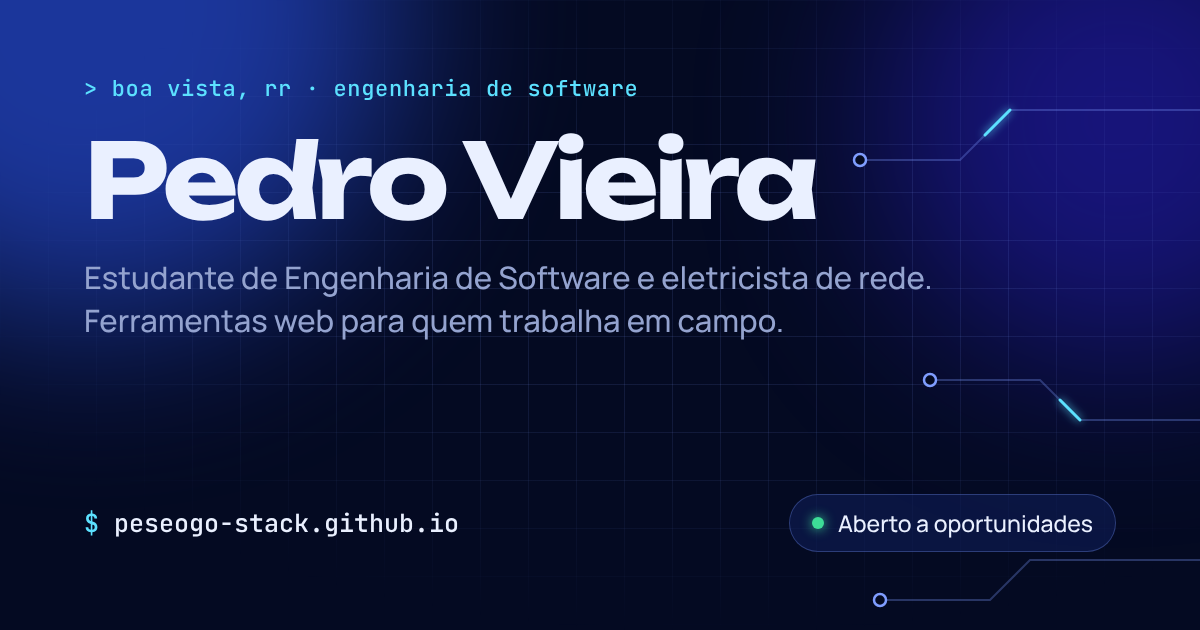
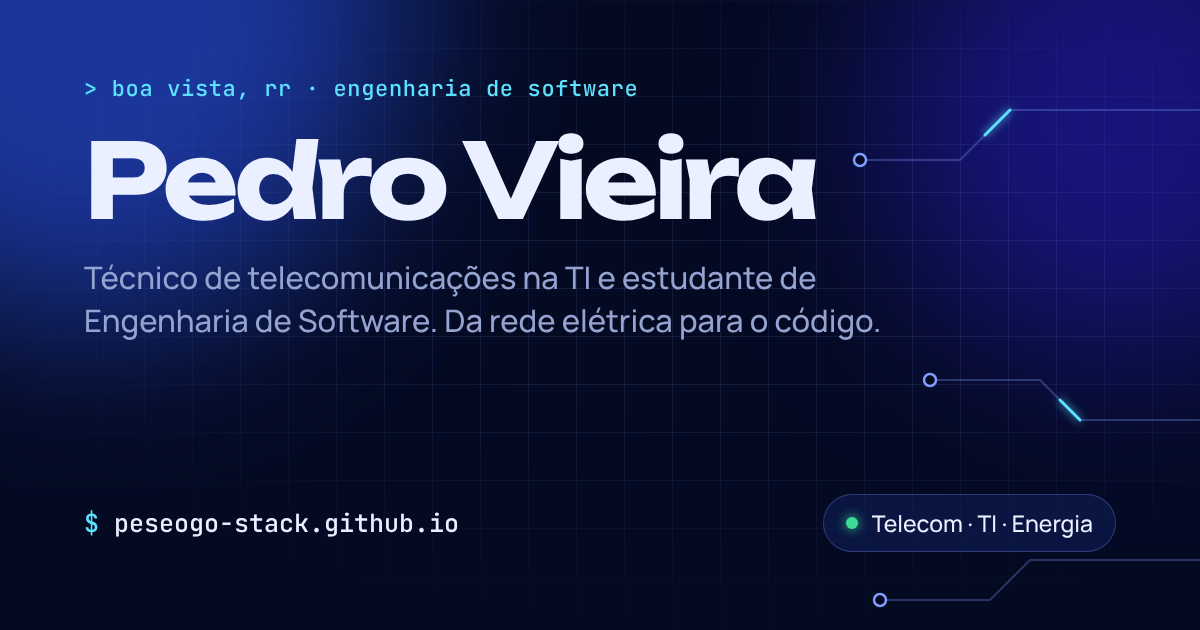
Atualiza a área atual: técnico de telecomunicações na TI
- Topo, cartão de código, Sobre e painel "Agora" com o trabalho atual:
  técnico de telecomunicações no setor de TI da Âmbar RR, contratado
  pela Norte Tech, desde nov. 2026
- Na trajetória, os dois fios agora se juntam no trabalho atual, com o
  objetivo de 2029 logo abaixo; a fase de eletricista vai de jul. a
  out. 2026
- Remove os textos de "aberto a oportunidades" (selo, status do código,
  contato e imagem de prévia do link)

Claude-Session: https://claude.ai/code/session_018XH9NCpCkZoVgLLGGqTt29

Changed region(s): [[0.0617, 0.4222, 0.7708, 0.5429], [0.6475, 0.7841, 0.925, 0.8746]]

diff --git a/index.html b/index.html
@@ -4,7 +4,7 @@
   <meta charset="utf-8">
   <meta name="viewport" content="width=device-width, initial-scale=1">
   <title>Pedro Vieira · Engenharia de Software</title>
-  <meta name="description" content="Portfólio de Pedro Vieira, estudante de Engenharia de Software em Boa Vista (RR) e eletricista de rede de distribuição. Projetos web em JavaScript, Python e SQL.">
+  <meta name="description" content="Portfólio de Pedro Vieira, técnico de telecomunicações na área de TI e estudante de Engenharia de Software em Boa Vista (RR). Projetos web em JavaScript, Python e SQL.">
   <meta name="author" content="Pedro Gabriel Costa Vieira">
   <link rel="canonical" href="https://peseogo-stack.github.io/">
 
@@ -13,7 +13,7 @@
   <meta property="og:locale" content="pt_BR">
   <meta property="og:url" content="https://peseogo-stack.github.io/">
   <meta property="og:title" content="Pedro Vieira · Engenharia de Software">
-  <meta property="og:description" content="Estudante de Engenharia de Software e eletricista. Construo ferramentas web para problemas reais de quem trabalha em campo.">
+  <meta property="og:description" content="Técnico de telecomunicações na TI e estudante de Engenharia de Software. Venho da rede elétrica e construo ferramentas web para quem trabalha em campo.">
   <meta property="og:image" content="https://peseogo-stack.github.io/img/og.png">
   <meta property="og:image:width" content="1200">
   <meta property="og:image:height" content="630">
@@ -34,7 +34,7 @@
     "name": "Pedro Gabriel Costa Vieira",
     "alternateName": "Pedro Vieira",
     "url": "https://peseogo-stack.github.io/",
-    "jobTitle": "Estudante de Engenharia de Software",
+    "jobTitle": "Técnico de Telecomunicações (TI)",
     "address": { "@type": "PostalAddress", "addressLocality": "Boa Vista", "addressRegion": "RR", "addressCountry": "BR" },
     "alumniOf": { "@type": "CollegeOrUniversity", "name": "UNINTER" },
     "sameAs": [
@@ -179,12 +179,12 @@
     <div class="faixa">
       <div class="largura heroi__grade">
         <div class="heroi__texto">
-          <p class="pilula entra" style="--d:.05s"><span class="ponto" aria-hidden="true"></span>Aberto a estágio, suporte de TI e dev júnior</p>
+          <p class="pilula entra" style="--d:.05s"><span class="ponto" aria-hidden="true"></span>Técnico de Telecomunicações · TI na Âmbar RR</p>
           <h1 class="heroi__nome">Pedro Vieira</h1>
-          <p class="digitando entra" style="--d:.28s" aria-label="Eu sou desenvolvedor em formação, eletricista de rede e estudante de Engenharia de Software">
-            <span aria-hidden="true">Eu sou </span><span class="digitando__texto" aria-hidden="true">desenvolvedor em formação</span><span class="caret" aria-hidden="true"></span>
+          <p class="digitando entra" style="--d:.28s" aria-label="Eu sou técnico de telecomunicações, estudante de Engenharia de Software e desenvolvedor em formação">
+            <span aria-hidden="true">Eu sou </span><span class="digitando__texto" aria-hidden="true">técnico de telecomunicações</span><span class="caret" aria-hidden="true"></span>
           </p>
-          <p class="lead entra" style="--d:.38s">Trabalho na rede de distribuição de energia e estudo Engenharia de Software em Boa Vista (RR). Construo ferramentas web para quem trabalha em campo.</p>
+          <p class="lead entra" style="--d:.38s">Trabalho com telecomunicações no setor de TI de uma empresa de energia e estudo Engenharia de Software em Boa Vista (RR). Venho da rede elétrica e construo ferramentas web para quem trabalha em campo.</p>
           <div class="botoes entra" style="--d:.48s">
             <a class="btn btn--corrente magnetico" href="#projetos">Ver projetos <svg class="icone" aria-hidden="true"><use href="#i-seta"/></svg></a>
             <a class="btn btn--vidro magnetico" href="https://github.com/Peseogo-stack" target="_blank" rel="noopener"><svg class="icone" aria-hidden="true"><use href="#i-github"/></svg>GitHub</a>
@@ -205,13 +205,13 @@
                 <span class="heroi__arquivo">pedro.js</span>
                 <button type="button" class="heroi__executar" id="executar"><svg class="icone" aria-hidden="true"><use href="#i-play"/></svg><span id="executar-texto">Executar</span></button>
               </div>
-              <div class="heroi__codigo" role="img" aria-label="Código descrevendo o Pedro: cidade Boa Vista, curso Engenharia de Software, trabalho eletricista de rede, estudando Python, SQL e Web, disponível.">
+              <div class="heroi__codigo" role="img" aria-label="Código descrevendo o Pedro: cidade Boa Vista, curso Engenharia de Software, trabalho técnico de telecomunicações na TI, origem eletricista de rede, estudando Python, SQL e Web.">
                 <span class="l"><span class="c-pal">const</span> <span class="c-cha">pedro</span> <span class="c-pon">=</span> <span class="c-pon">{</span></span>
                 <span class="l">  <span class="c-cha">cidade</span><span class="c-pon">:</span> <span class="c-txt">"Boa Vista, RR"</span><span class="c-pon">,</span></span>
                 <span class="l">  <span class="c-cha">curso</span><span class="c-pon">:</span> <span class="c-txt">"Eng. de Software"</span><span class="c-pon">,</span></span>
-                <span class="l">  <span class="c-cha">trabalho</span><span class="c-pon">:</span> <span class="c-txt">"Eletricista de rede"</span><span class="c-pon">,</span></span>
+                <span class="l l--ativa">  <span class="c-cha">trabalho</span><span class="c-pon">:</span> <span class="c-txt">"Téc. de Telecom · TI"</span><span class="c-pon">,</span></span>
+                <span class="l">  <span class="c-cha">origem</span><span class="c-pon">:</span> <span class="c-txt">"Eletricista de rede"</span><span class="c-pon">,</span></span>
                 <span class="l">  <span class="c-cha">estudando</span><span class="c-pon">:</span> <span class="c-pon">[</span><span class="c-txt">"Python"</span><span class="c-pon">,</span> <span class="c-txt">"SQL"</span><span class="c-pon">,</span> <span class="c-txt">"Web"</span><span class="c-pon">],</span></span>
-                <span class="l l--ativa">  <span class="c-cha">disponivel</span><span class="c-pon">:</span> <span class="c-bool">true</span><span class="c-pon">,</span></span>
                 <span class="l"><span class="c-pon">};</span></span>
                 <span class="l"> </span>
                 <span class="l"><span class="c-fn">apresentar</span><span class="c-pon">(</span><span class="c-cha">pedro</span><span class="c-pon">);</span></span>
@@ -221,9 +221,9 @@
                 <div class="saida" id="saida" aria-live="polite">
                   <p class="ok" style="--i:0">✓ perfil carregado</p>
                   <p style="--i:1"><span class="k">curso</span><span>Eng. de Software · 2º período</span></p>
-                  <p style="--i:2"><span class="k">trabalho</span><span>Eletricista · NR-10 · NR-35</span></p>
-                  <p style="--i:3"><span class="k">projetos</span><span>4 (2 com demo no ar)</span></p>
-                  <p style="--i:4"><span class="k">status</span><span>disponível para estágio e dev júnior</span></p>
+                  <p style="--i:2"><span class="k">trabalho</span><span>Téc. de Telecom · TI · Âmbar RR</span></p>
+                  <p style="--i:3"><span class="k">origem</span><span>Eletricista · NR-10 · NR-35</span></p>
+                  <p style="--i:4"><span class="k">projetos</span><span>4 (2 com demo no ar)</span></p>
                 </div>
               </div>
             </div>
@@ -355,9 +355,9 @@
             <div class="sobre__texto">
               <p class="eyebrow-mono">// sobre</p>
               <h2 class="titulo-secao" id="sobre-titulo">Do poste ao código</h2>
-              <p>Moro em Boa Vista (RR) e curso <strong>Engenharia de Software na UNINTER</strong>. Durante o dia, trabalho como <strong>eletricista na rede de distribuição de energia</strong>.</p>
-              <p>É um trabalho de procedimento: NR-10, NR-35, conferir tudo antes de qualquer manobra e resolver o problema com o cliente esperando. Levo o mesmo método para o código: entender o problema no campo, seguir um passo a passo e testar antes de entregar.</p>
-              <p>No longo prazo, quero unir as duas áreas e construir <strong>software para energia e automação industrial</strong>.</p>
+              <p>Moro em Boa Vista (RR) e curso <strong>Engenharia de Software na UNINTER</strong>. Comecei como eletricista na rede de distribuição de energia e hoje trabalho como <strong>técnico de telecomunicações no setor de TI da Âmbar RR</strong>, contratado pela Norte Tech.</p>
+              <p>No campo aprendi que tudo é procedimento: NR-10, NR-35, conferir tudo antes de qualquer manobra e resolver o problema com o cliente esperando. Levo o mesmo método para a TI e para o código: entender o problema de perto, seguir um passo a passo e testar antes de entregar.</p>
+              <p>Os dois caminhos já começaram a se encontrar: hoje cuido de telecom numa empresa de energia. No longo prazo, quero construir <strong>software para energia e automação industrial</strong>.</p>
             </div>
             <aside class="agora" aria-labelledby="agora-titulo">
               <div class="agora__topo">
@@ -366,12 +366,12 @@
               </div>
               <!-- Atualize esta lista (e a data) de tempos em tempos -->
               <ul class="agora__lista">
+                <li><span class="agora__rotulo">Trabalho</span><span class="agora__valor">Téc. de Telecom na TI da Âmbar RR</span></li>
                 <li><span class="agora__rotulo">Faculdade</span><span class="agora__valor">2º período de Eng. de Software</span></li>
                 <li><span class="agora__rotulo">Estudando</span><span class="agora__valor">Python e SQL no DataCamp</span></li>
                 <li><span class="agora__rotulo">Inglês</span><span class="agora__valor">600+ dias praticando no Duolingo</span></li>
-                <li><span class="agora__rotulo">Construindo</span><span class="agora__valor">Projetos com o GitHub Student Pack</span></li>
               </ul>
-              <p class="agora__data">atualizado em out. 2026</p>
+              <p class="agora__data">atualizado em nov. 2026</p>
             </aside>
           </div>
 
@@ -401,10 +401,10 @@
               </li>
               <li class="fio-item fio-item--eletrica" style="grid-row:3">
                 <span class="area area--eletrica">Elétrica</span>
-                <span class="tl-data">jul. 2026</span>
+                <span class="tl-data">jul. a out. 2026</span>
                 <h4 class="tl-titulo">Eletricista na Norte Tech</h4>
                 <p class="tl-local">Boa Vista, RR</p>
-                <p class="tl-desc">Trabalho na rede de distribuição de energia, com procedimento e segurança em primeiro lugar.</p>
+                <p class="tl-desc">Rede de distribuição de energia, com procedimento e segurança em primeiro lugar.</p>
               </li>
               <li class="fio-item fio-item--eletrica" style="grid-row:4">
                 <span class="area area--eletrica">Elétrica</span>
@@ -422,7 +422,7 @@
               </li>
               <li class="fio-item fio-item--software" style="grid-row:6">
                 <span class="area area--software">Software</span>
-                <span class="tl-data">out. 2026<b class="selo-agora">agora</b></span>
+                <span class="tl-data">out. 2026</span>
                 <h4 class="tl-titulo">4 projetos construídos</h4>
                 <p class="tl-local">JavaScript · Python · SQL</p>
                 <p class="tl-desc">Inventaria System, Mathesis, PRF Aprova e o sistema de almoxarifado. Duas demos estão no ar.</p>
@@ -435,7 +435,15 @@
                 <path class="u-pulso" pathLength="1000" d="M0 0 C0 58 42 46 42 98 V120"/>
                 <path class="u-pulso" pathLength="1000" style="animation-delay:1.5s" d="M84 0 C84 58 42 46 42 98 V120"/>
               </svg>
+              <!-- Onde os dois fios se juntam: o trabalho atual -->
               <div class="fios__destino">
+                <span class="area area--juncao">nov. 2026 · agora</span>
+                <h4 class="tl-titulo">Técnico de Telecomunicações · TI</h4>
+                <p class="tl-local">Âmbar RR (matriz) · contratado pela Norte Tech</p>
+                <p class="tl-desc">Os dois fios se encontraram: hoje trabalho com telecom no setor de TI de uma empresa de energia.</p>
+              </div>
+              <div class="fios__ponte" aria-hidden="true"></div>
+              <div class="fios__destino fios__destino--futuro">
                 <span class="area area--futuro">2029 · objetivo</span>
                 <h4 class="tl-titulo">Formatura e próximo passo</h4>
                 <p class="tl-local">previsão</p>
@@ -490,7 +498,7 @@
           <p class="rede__dica">Passe o mouse ou toque numa habilidade (ou num projeto) para ver as ligações.</p>
 
           <div class="hab-extra">
-            <div class="hab-extra__grupo cor-estudo"><h3>Estudando agora</h3><ul class="chips"><li>SQL<small>DataCamp</small></li><li>Python para eng. de software<small>DataCamp</small></li><li>Inglês<small>Duolingo</small></li><li>Redes de computadores<small>estudando</small></li><li>Excel e Power BI<small>noções</small></li></ul></div>
+            <div class="hab-extra__grupo cor-estudo"><h3>Estudando agora</h3><ul class="chips"><li>SQL<small>DataCamp</small></li><li>Python para eng. de software<small>DataCamp</small></li><li>Inglês<small>Duolingo</small></li><li>Redes e telecom<small>no trabalho</small></li><li>Excel e Power BI<small>noções</small></li></ul></div>
             <div class="hab-extra__grupo cor-campo"><h3>Da área elétrica</h3><ul class="chips"><li>Automação de sistemas<small>IFRS</small></li><li>NR-10<small>eletricidade</small></li><li>NR-35<small>trabalho em altura</small></li><li>SEP<small>sistema de potência</small></li><li>Redes de distribuição<small>campo</small></li><li>Direção defensiva<small>curso</small></li></ul></div>
           </div>
         </div>
@@ -504,7 +512,7 @@
         <div class="largura contato__caixa">
           <p class="eyebrow-mono">// contato</p>
           <h2 class="contato__titulo" id="contato-titulo">Vamos conversar?</h2>
-          <p class="lead">Estou buscando minha primeira oportunidade em tecnologia: estágio, suporte de TI ou desenvolvedor júnior. O jeito mais rápido de falar comigo é por e-mail.</p>
+          <p class="lead">Quer trocar uma ideia sobre projetos, TI ou tecnologia no setor de energia? O jeito mais rápido de falar comigo é por e-mail.</p>
           <div class="contato__email-card">
             <a class="contato__email" id="email" href="mailto:pedrogabrielvieira050307@gmail.com">pedrogabrielvieira050307@gmail.com</a>
             <button type="button" class="link-proj link-proj--forte" id="copiar-email">Copiar e-mail</button>
@@ -513,7 +521,6 @@
             <a class="btn btn--vidro" href="https://www.linkedin.com/in/pedro-gabriel-costa-vieira03052007" target="_blank" rel="noopener"><svg class="icone" aria-hidden="true"><use href="#i-linkedin"/></svg>LinkedIn</a>
             <a class="btn btn--vidro" href="https://github.com/Peseogo-stack" target="_blank" rel="noopener"><svg class="icone" aria-hidden="true"><use href="#i-github"/></svg>GitHub</a>
           </div>
-          <p class="pilula"><span class="ponto" aria-hidden="true"></span>Aberto a estágio, suporte de TI e dev júnior</p>
         </div>
       </div>
     </section>

diff --git a/css/estilo.css b/css/estilo.css
@@ -470,6 +470,10 @@ h4 { margin: 0; }
   box-shadow: 0 0 0 1px rgb(92 225 255 / .4), 0 0 70px -14px rgb(92 225 255 / .45);
 }
 .fios__destino .tl-titulo { font-size: 1.3rem; }
+.area--juncao { color: var(--noite); background: var(--eletrico); border: 1px solid var(--eletrico); font-weight: 600; }
+.fios__ponte { width: 2px; height: 44px; margin: 0 auto; background: repeating-linear-gradient(180deg, var(--royal-claro) 0 6px, transparent 6px 12px); opacity: .7; }
+.fios__destino--futuro { background: rgb(8 18 58 / .55); box-shadow: 0 0 0 1px var(--linha-forte); }
+.fios__destino--futuro .tl-titulo { font-size: 1.1rem; }
 
 @media (max-width: 900px) {
   .sobre { grid-template-columns: 1fr; gap: 36px; }

diff --git a/js/main.js b/js/main.js
@@ -28,7 +28,7 @@
   /* frase "Eu sou ..." que se digita sozinha */
   (function () {
     var el = heroi.querySelector('.digitando__texto');
-    var frases = ['desenvolvedor em formação', 'eletricista de rede', 'estudante de Eng. de Software'];
+    var frases = ['técnico de telecomunicações', 'estudante de Eng. de Software', 'desenvolvedor em formação'];
     var i = 0, j = frases[0].length, apagando = true;
     if (reduz) return;
     function passo() {
